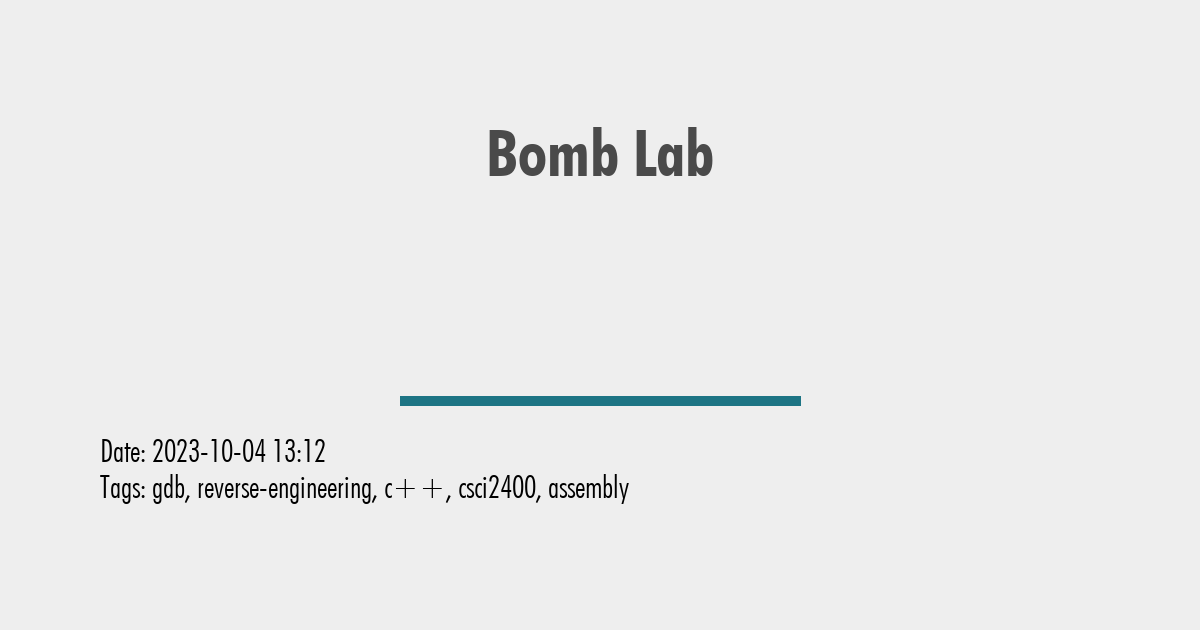
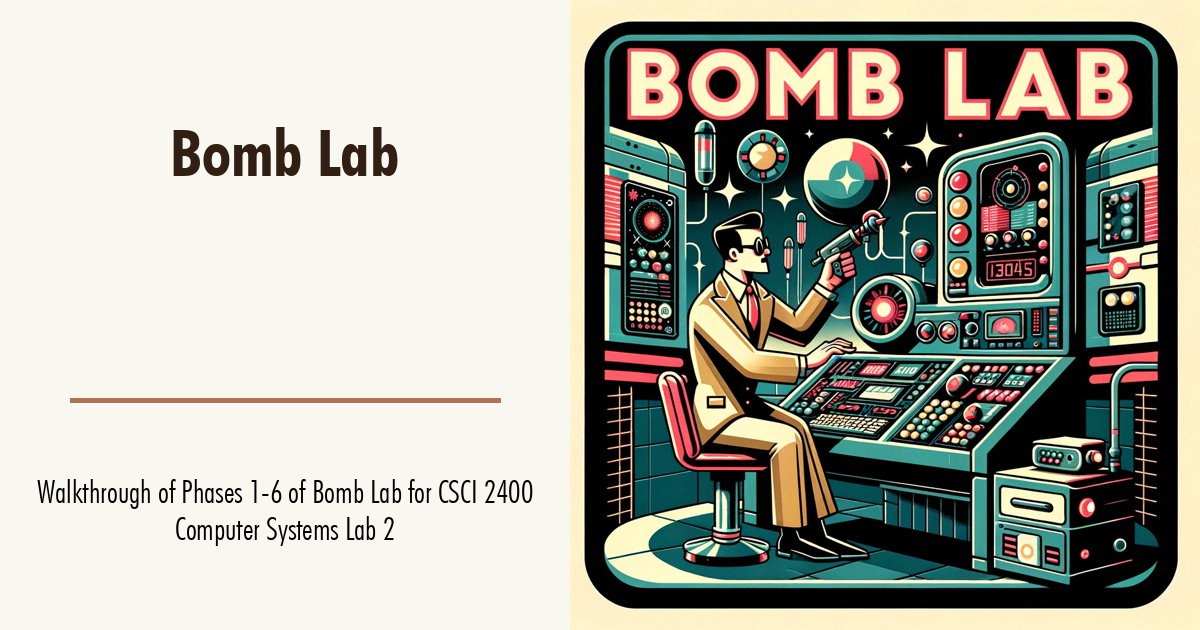
Use Dall-E to generate images

diff --git a/generate_me.py b/generate_me.py
@@ -5,6 +5,7 @@ from distutils.dir_util import copy_tree
 import datetime
 import email.utils
 from helper_libs.image_utils import ImageText
+from PIL import Image
 
 templates = Environment(loader=FileSystemLoader("templates"))
 src_folder = "Content"
@@ -15,8 +16,8 @@ f_title = "Navan's Archive"
 f_description = "Rare Tips, Tricks and Posts"
 f_date = email.utils.format_datetime(datetime.datetime.now())
 
-image_title_color = (74, 74, 74)
-image_line_color = (29, 116, 132)
+image_title_color = (49,31,19) #(74, 74, 74)
+image_line_color = (176,113,84) #(29, 116, 132)
 image_title_font = "fonts/futura_bold.ttf"
 image_text_font = "fonts/futura_light.ttf"
 
@@ -97,37 +98,68 @@ for x in os.walk(src_folder):
 
                         # Check if image exists
                         if not os.path.exists(to_write_path):
+                            print(print("Generating Image for {}".format(fpath)))
                             img = ImageText((1200, 630), background=(238, 238, 238))
-                            img.write_text_box(
-                                (100, 50),
-                                _post_title,
-                                box_width=1000,
-                                font_filename=image_title_font,
-                                font_size=65,
-                                color=image_title_color,
-                                place="center",
-                            )
-                            img.line(
-                                shape=[(400, 400), (800, 400)], fill=image_line_color
-                            )
-                            img.write_text_box(
-                                (100, 430),
-                                f'Tags: {", ".join(_post["tags"])}',
-                                box_width=1000,
-                                font_filename=image_text_font,
-                                font_size=32,
-                                color=(0, 0, 0),
-                                place="left",
-                            )
-                            img.write_text_box(
-                                (100, 400),
-                                f'Date: {_post["date"]}',
-                                box_width=1000,
-                                font_filename=image_text_font,
-                                font_size=32,
-                                color=(0, 0, 0),
-                                place="left",
-                            )
+                            dall_e_image = to_write_path.replace("images/opengraph","DallE3Base")
+                            if (os.path.exists(dall_e_image)):
+                                print("Found DallE3Base Image")
+                                img = ImageText((1200,630), background=(248,247,240))
+                                dall_e_image_file = Image.open(dall_e_image)
+                                dall_e_image_file = dall_e_image_file.resize((630,630))
+                                img.paste(dall_e_image_file, (570,0))
+                                img.write_text_box(
+                                        (35, 50),
+                                        _post_title,
+                                        box_width=500,
+                                        font_filename=image_title_font,
+                                        font_size=65,
+                                        color=image_title_color,
+                                        place="center",
+                                    )
+                                img.line(
+                                    shape=[(500, 400), (70,400)], fill=image_line_color, width=5
+                                )
+                                img.write_text_box(
+                                        (35, 435),
+                                        _post["description"],
+                                        box_width=500,
+                                        font_filename=image_text_font,
+                                        font_size=32,
+                                        color=(0, 0, 0),
+                                        place="center",
+                                    )
+                            else: 
+                            #img = ImageText((1200, 630), background=(238, 238, 238))
+                                img.write_text_box(
+                                    (100, 50),
+                                    _post_title,
+                                    box_width=1000,
+                                    font_filename=image_title_font,
+                                    font_size=65,
+                                    color=image_title_color,
+                                    place="center",
+                                )
+                                img.line(
+                                    shape=[(400, 400), (800, 400)], fill=image_line_color
+                                )
+                                img.write_text_box(
+                                    (100, 430),
+                                    f'Tags: {", ".join(_post["tags"])}',
+                                    box_width=1000,
+                                    font_filename=image_text_font,
+                                    font_size=32,
+                                    color=(0, 0, 0),
+                                    place="left",
+                                )
+                                img.write_text_box(
+                                    (100, 400),
+                                    f'Date: {_post["date"]}',
+                                    box_width=1000,
+                                    font_filename=image_text_font,
+                                    font_size=32,
+                                    color=(0, 0, 0),
+                                    place="left",
+                                )
                             try:
                                 img.save(to_write_path)
                             except FileNotFoundError as e:

diff --git a/helper_libs/image_utils.py b/helper_libs/image_utils.py
@@ -20,11 +20,14 @@ class ImageText(object):
         self.draw = ImageDraw.Draw(self.image)
         self.encoding = encoding
 
-    def line(self, shape, fill):
-        self.draw.line(shape,fill=fill, width=10)
+    def line(self, shape, fill, width=10):
+        self.draw.line(shape,fill=fill, width=width)
 
     def save(self, filename=None):
         self.image.save(filename or self.filename)
+
+    def paste(self, image, coords):
+        self.image.paste(image, coords)
 
     def get_font_size(self, text, font, max_width=None, max_height=None):
         if max_width is None and max_height is None:
